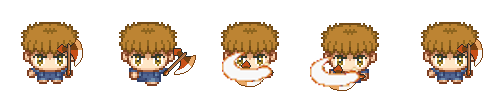
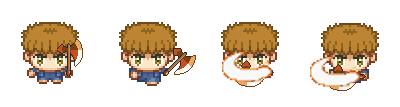
fixed player twitching on equip/un-equip

diff --git a/Game1.cs b/Game1.cs
@@ -92,6 +92,7 @@ namespace konoha
             playerDownWithAxe = Content.Load<Texture2D>("player/withAxe/playerDownWithAxe");
             playerLeftWithAxe = Content.Load<Texture2D>("player/withAxe/playerLeftWithAxe");
 
+            // TODO: consider adding more frames? analyze the twitching issue and then decide
             playerDownWithAxeSwing = Content.Load<Texture2D>("player/withAxeSwing/playerDownWithAxeSwing");
 
             eyeEnemy_Sprite = Content.Load<Texture2D>("enemies/eyeEnemy");
@@ -116,10 +117,10 @@ namespace konoha
             player.animations[7] = new AnimatedSprite(playerRightWithAxe, 1, 4, 0.15D);
 
             // WITH AXE + SWING
-            player.animations[8] = new AnimatedSprite(playerDownWithAxeSwing, 1, 5, 0.1D);
-            player.animations[9] = new AnimatedSprite(playerDownWithAxeSwing, 1, 5, 0.1D);
-            player.animations[10] = new AnimatedSprite(playerDownWithAxeSwing, 1, 5, 0.1D);
-            player.animations[11] = new AnimatedSprite(playerDownWithAxeSwing, 1, 5, 0.1D);
+            player.animations[8] = new AnimatedSprite(playerDownWithAxeSwing, 1, 4, 0.1D);
+            player.animations[9] = new AnimatedSprite(playerDownWithAxeSwing, 1, 4, 0.1D);
+            player.animations[10] = new AnimatedSprite(playerDownWithAxeSwing, 1, 4, 0.1D);
+            player.animations[11] = new AnimatedSprite(playerDownWithAxeSwing, 1, 4, 0.1D);
 
 
             myMap = Content.Load<TiledMap>("misc/rpgTilesMap");
@@ -225,7 +226,7 @@ namespace konoha
             _spriteBatch.Begin(transformMatrix: cam.GetViewMatrix());
 
             if (player.Health > 0)
-                player.anim.Draw(_spriteBatch, new Vector2(player.Position.X - (player.playerSpriteWidth / 2), player.Position.Y - (player.playerSpriteWidth / 2)));
+                player.anim.Draw(_spriteBatch, new Vector2(player.Position.X - (player.playerSpriteWidth / 2), player.Position.Y - (player.playerSpriteHeight / 2)));
 
             foreach (Projectile projectile in Projectile.projectiles)
             {

diff --git a/Player.cs b/Player.cs
@@ -25,6 +25,7 @@ namespace konoha
         private Keys useEquippedWeaponKey = Keys.S;
 
         public int playerSpriteWidth = 96;
+        public int playerSpriteHeight = 96;
         public AnimatedSprite anim;
         public AnimatedSprite[] animations = new AnimatedSprite[12];
 
@@ -128,7 +129,37 @@ namespace konoha
             int setDirection = (int)direction;
 
             if (weaponEquipped)
+            {
+
                 setDirection += (int)DirectionTranslationFromBaseDirectionSets.playerWithAxe;
+
+                switch (setDirection)
+                {
+                    case (int)Dir.DownWithAxe:
+                        playerSpriteWidth = 98;
+                        playerSpriteHeight = 108;
+                        break;
+                    case (int)Dir.UpWithAxe:
+                        playerSpriteWidth = 98;
+                        playerSpriteHeight = 108;
+                        break;
+                    case (int)Dir.LeftWithAxe:
+                        playerSpriteWidth = 108;
+                        playerSpriteHeight = 107;
+                        break;
+                    case (int)Dir.RightWithAxe:
+                        playerSpriteWidth = 96;
+                        playerSpriteHeight = 107;
+                        break;
+                    default:
+                        // TODO: Error handling
+                        break;
+                }
+            } else
+            {
+                playerSpriteWidth = 96;
+                playerSpriteHeight = 96;
+            }
 
             if (weaponTimer > 0)
             {
@@ -152,6 +183,7 @@ namespace konoha
             if (isMoving || isSwingingWeapon)
                 anim.Update(gameTime);
             else
+                // TODO: Solve the twitches between frames after swinging
                 anim.setFrame(1);
 
             isMoving = false;
